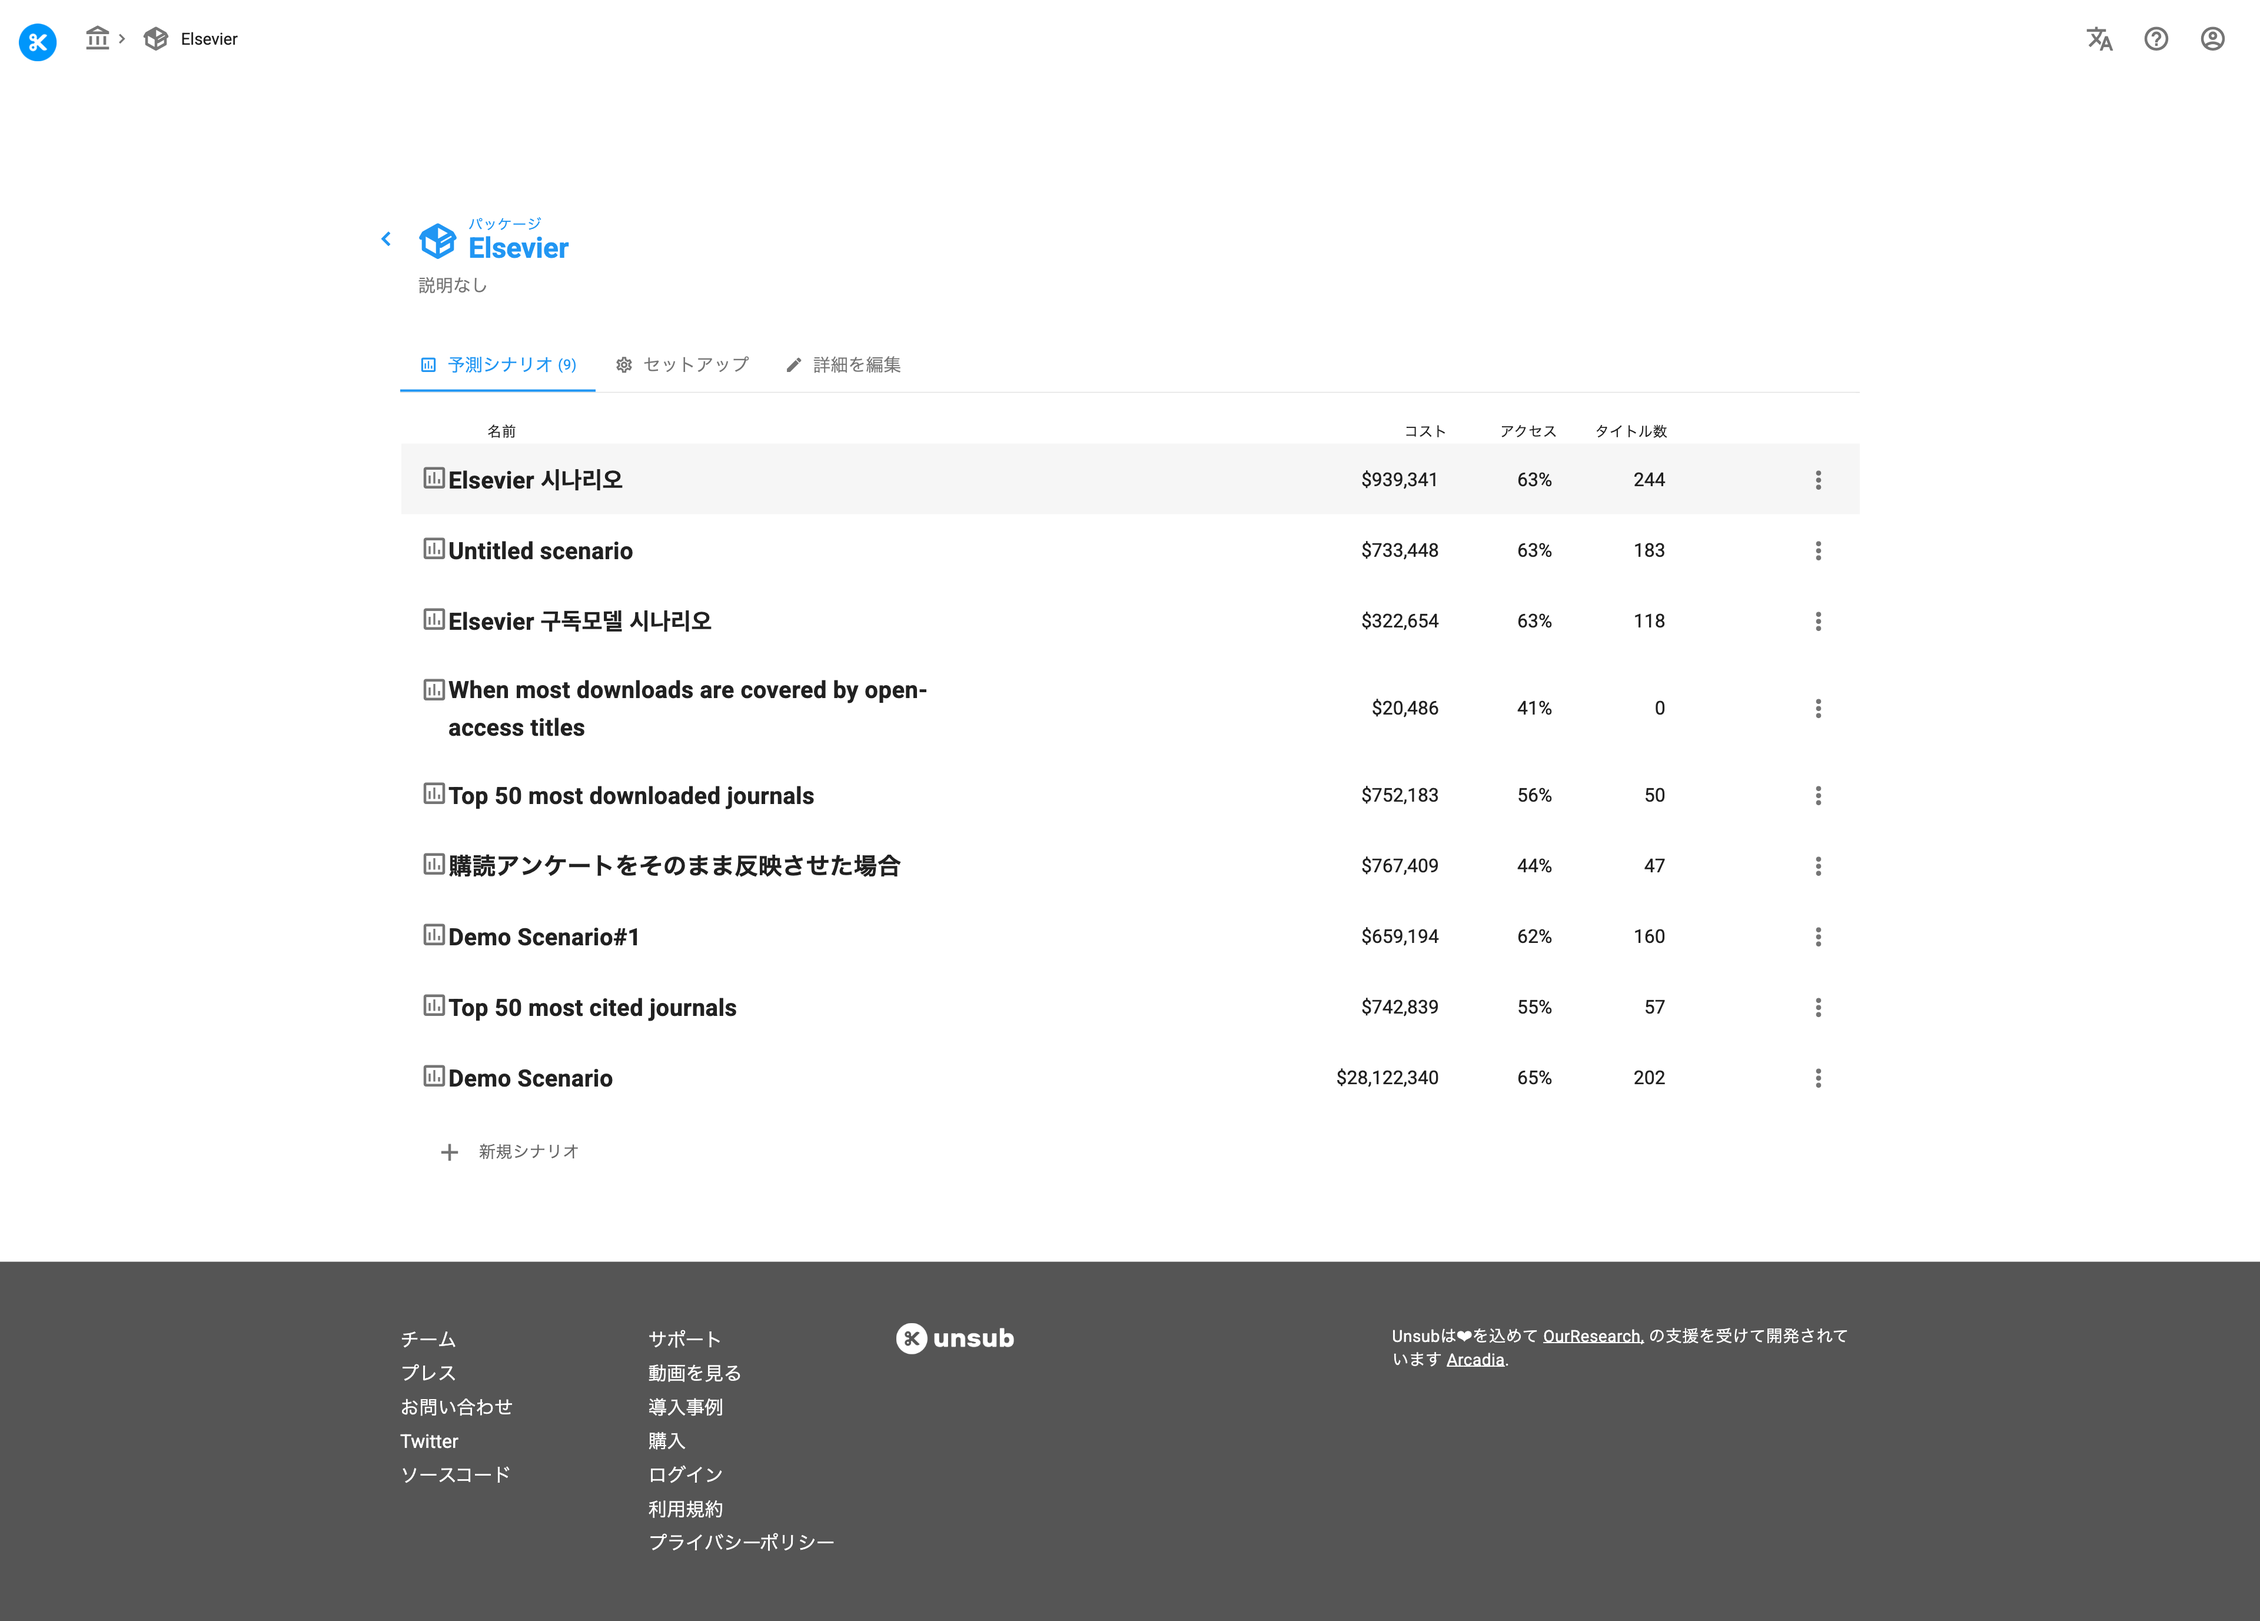
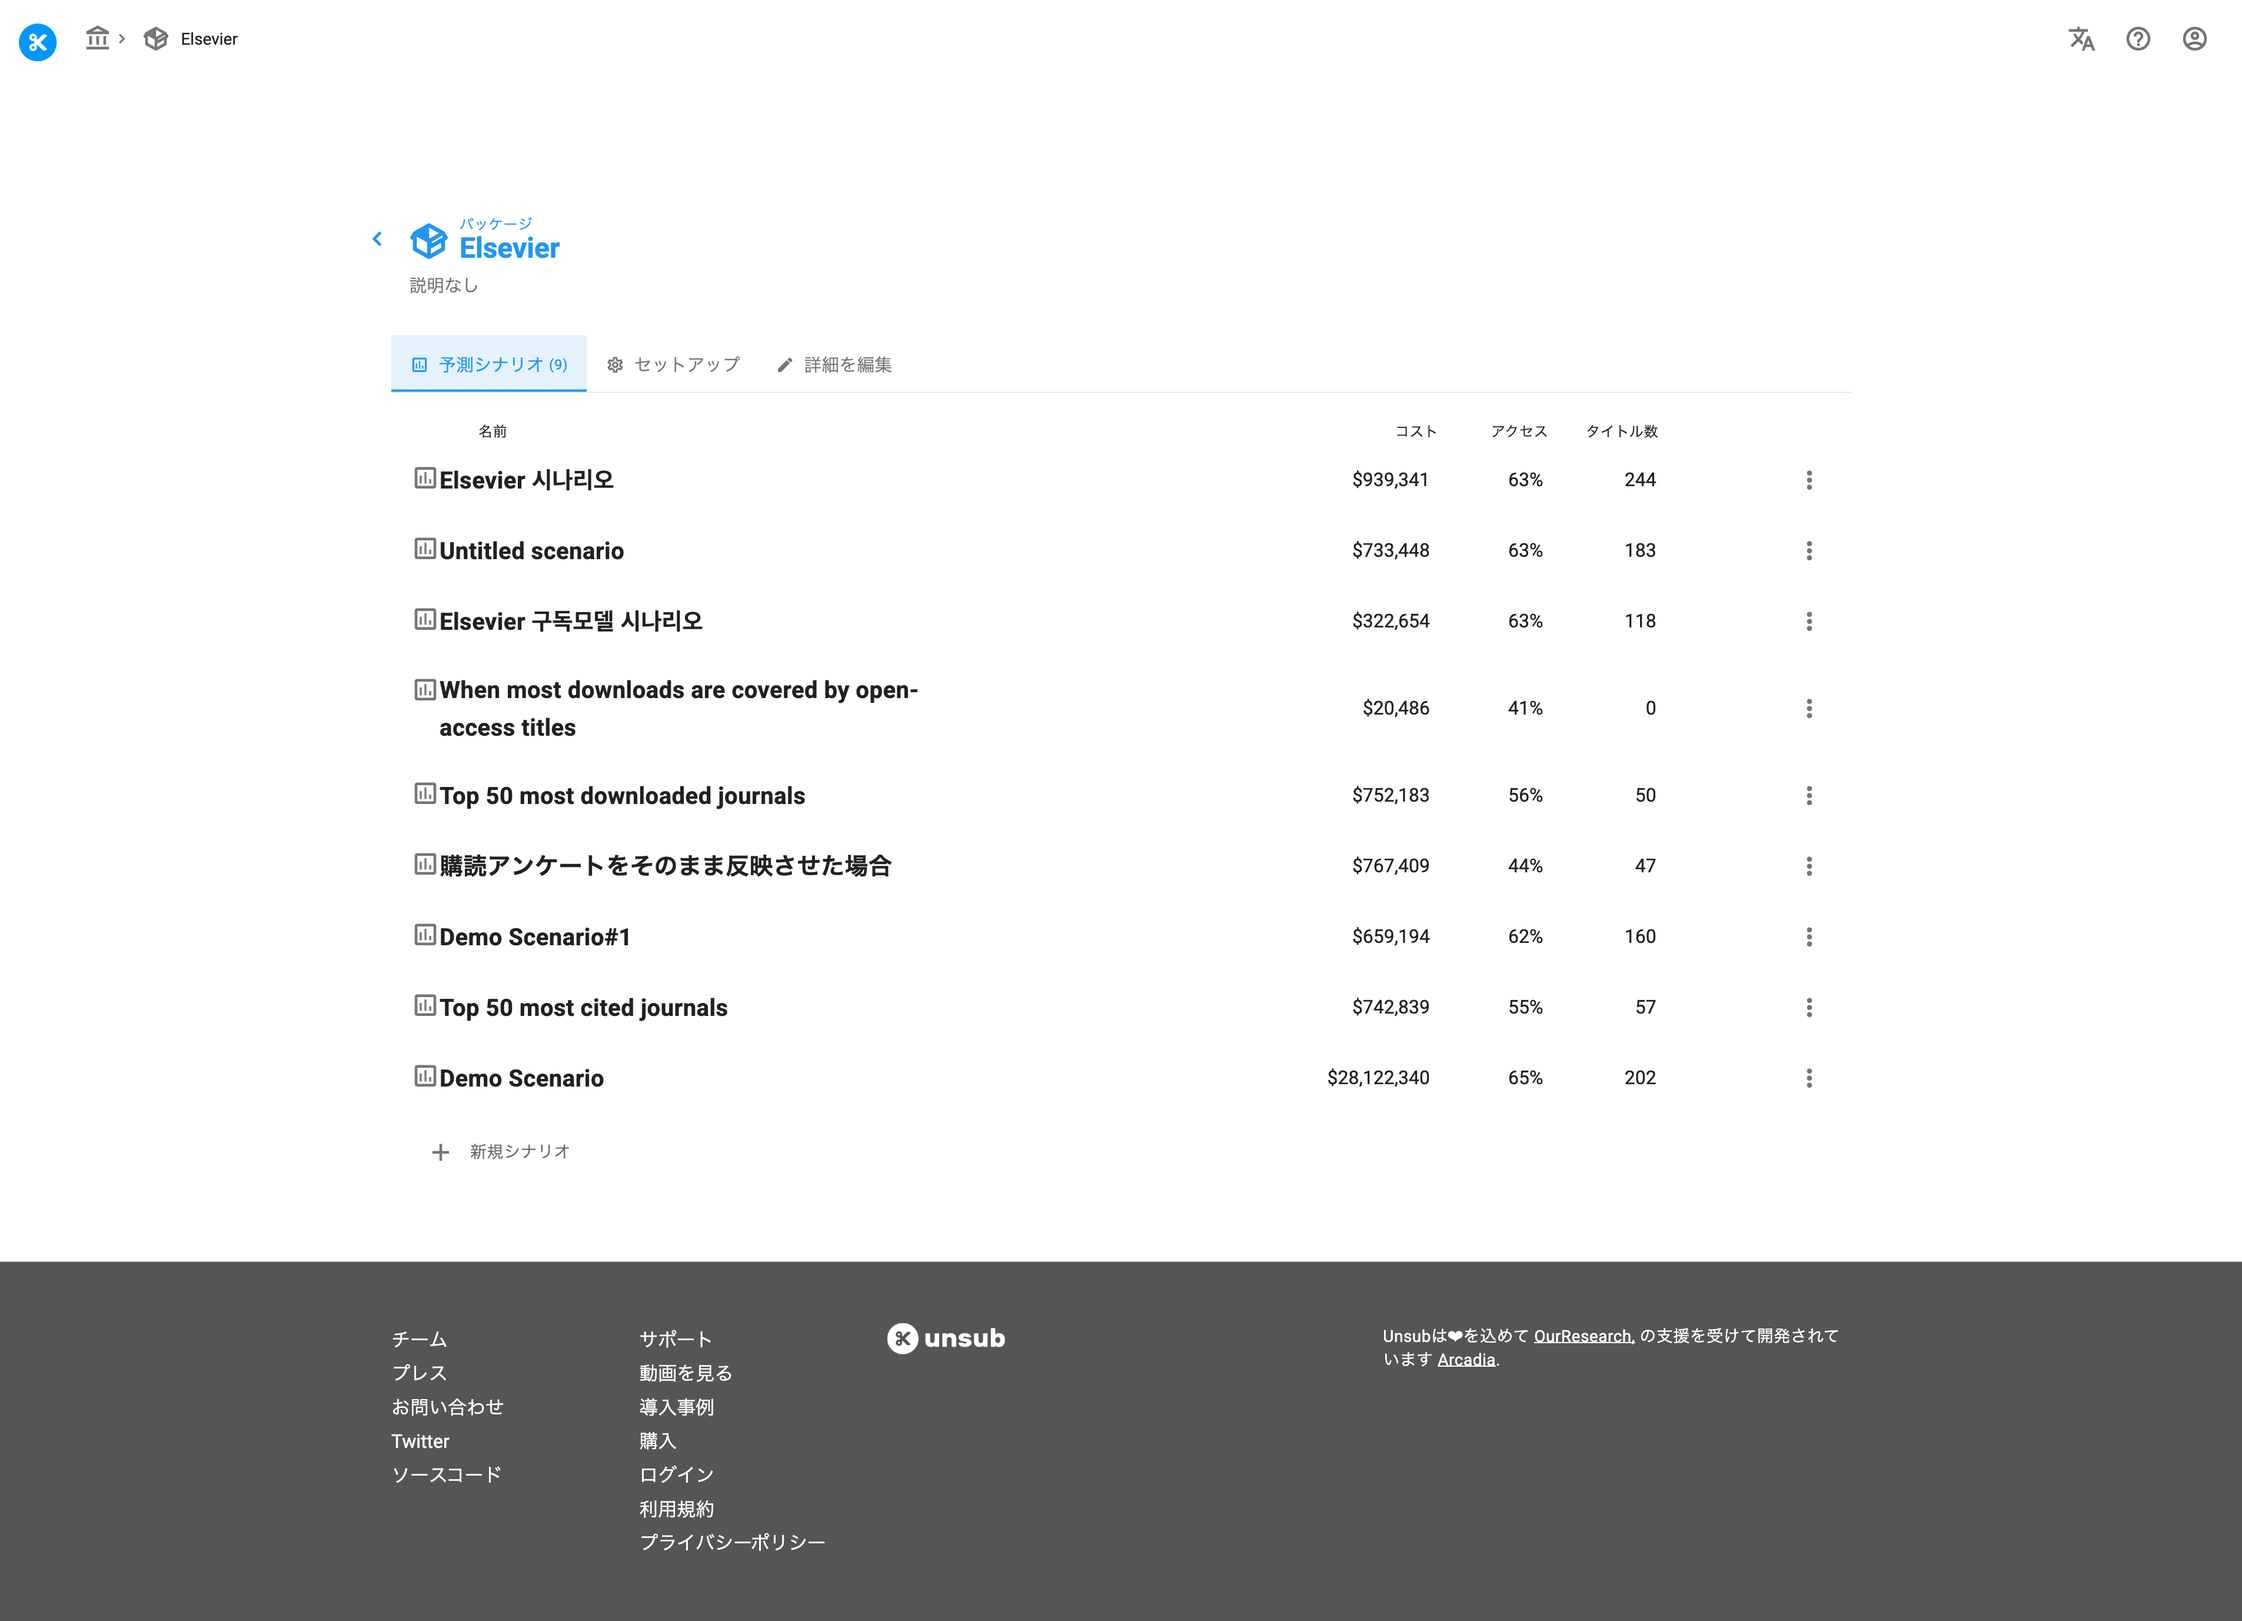
日本語UIスクリーンショット追加、英語プロキシ画像を差し替え、料金→価格に修正、フロントマター削除
- 各ページの英語版プロキシ画像を日本語UIキャプチャに差し替え
  (setup, scenario, select-journals, apc-report, change-package-name等)
- 「料金」→「価格」、「購読料金」→「購読価格」に用語統一
- Docsifyで表示されてしまうYAMLフロントマターを全ファイルから削除
- シナリオREADMEのリンクパスを修正

diff --git a/how-to-guides/change-package-name.md b/how-to-guides/change-package-name.md
@@ -14,12 +14,12 @@
 
 <figure><img src="https://docs.unsub.org/~gitbook/image?url=https%3A%2F%2F2329511114-files.gitbook.io%2F%7E%2Ffiles%2Fv0%2Fb%2Fgitbook-x-prod.appspot.com%2Fo%2Fspaces%252FeIwtiPevlQYuy1bQ4x85%252Fuploads%252FtaObLB8JjCOv8vITeqqj%252Fchange-package-description-names.jpg%3Falt%3Dmedia%26token%3D821e3b21-d5f1-491a-b71a-bb8c4e72959c&width=768&dpr=3&quality=100&sign=c390a1dcee11afbd0a65ed9e40b87a66&sv=3" alt=""><figcaption><p>画面右側にある3つの縦並びの点をクリックし、パッケージ名や説明の編集ができます。</p></figcaption></figure>
 
-Edit package nameもしくはEdit descriptionの箇所をクリックするとポップアップが表示されます。既に入力されているテキストを編集し、完了したら"Update"をクリックします。
+「パッケージ名を編集」もしくは「説明を編集」の箇所をクリックするとポップアップが表示されます。既に入力されているテキストを編集し、完了したら「更新」をクリックします。
 
 ### パッケージが既に選択された状態から
 
-パッケージ自体の画面に入った状態で、「**Edit Details**」というタブを探します。
+パッケージ自体の画面に入った状態で、「**詳細を編集**」というタブを探します。
 
-<figure><img src="https://docs.unsub.org/~gitbook/image?url=https%3A%2F%2F2329511114-files.gitbook.io%2F%7E%2Ffiles%2Fv0%2Fb%2Fgitbook-x-prod.appspot.com%2Fo%2Fspaces%252FeIwtiPevlQYuy1bQ4x85%252Fuploads%252FPeedFnIFXVg1dSxOqRsP%252Fchange-package-description-names-in-pkg-view.png%3Falt%3Dmedia%26token%3D5dff92c4-3e14-4ce8-a71d-a0cc7f144a4e&width=768&dpr=3&quality=100&sign=b3abfb28c3da3a0b7546a1f09621e097&sv=3" alt=""><figcaption><p>Edit Detailsのタブを見つけクリックします。</p></figcaption></figure>
+<figure><img src="../images/edit-details-tab-ja.png" alt=""><figcaption><p>「詳細を編集」のタブを見つけクリックします。</p></figcaption></figure>
 
-右側にある鉛筆をクリックすると、既に入力されたテキストが表示されたポップアップが表示されます。テキストを編集して、「Update」をクリックします。
+右側にある鉛筆をクリックすると、既に入力されたテキストが表示されたポップアップが表示されます。テキストを編集して、「更新」をクリックします。

diff --git a/how-to-guides/copy-scenario.md b/how-to-guides/copy-scenario.md
@@ -6,12 +6,12 @@
 
 既にシナリオが作成されている場合は、新規追加ではなくコピーをお勧めします。コピーしたシナリオはパラメータやその他の設定が全て複製されますので、作業をやり直す必要はありません。シナリオページにて、シナリオ名の右側にあるコピーアイコンをクリックします。
 
-<figure><img src="https://docs.unsub.org/~gitbook/image?url=https%3A%2F%2F2329511114-files.gitbook.io%2F%7E%2Ffiles%2Fv0%2Fb%2Fgitbook-x-prod.appspot.com%2Fo%2Fspaces%252FeIwtiPevlQYuy1bQ4x85%252Fuploads%252FkYZBvK2m1F7UneAkH5j0%252Fcopy-a-scenario-scenario-view.png%3Falt%3Dmedia%26token%3D3ef02267-86f3-4576-9f1e-a1000f29ec76&width=768&dpr=3&quality=100&sign=c13651cd28639ff77bebdd8c36d414c5&sv=3" alt=""><figcaption><p>シナリオ画面からのシナリオコピー</p></figcaption></figure>
+<figure><img src="../images/scenario-view-copy-icon-ja.png" alt=""><figcaption><p>シナリオ画面からのシナリオコピー</p></figcaption></figure>
 
 この後、複製された新しいシナリオに名前を付ける画面が表示されますので、名前を入力してください。
 
 また、シナリオ一覧ページからもシナリオのコピーをすることができます。コピーしたいシナリオの右側にある3つの縦長の点の箇所をクリックし、「Make a copy」を選択します。
 
-<figure><img src="https://docs.unsub.org/~gitbook/image?url=https%3A%2F%2F2329511114-files.gitbook.io%2F%7E%2Ffiles%2Fv0%2Fb%2Fgitbook-x-prod.appspot.com%2Fo%2Fspaces%252FeIwtiPevlQYuy1bQ4x85%252Fuploads%252FsDMzeJwYhlwU60UFOOzf%252Fcopy-a-scenario-pkg-view.png%3Falt%3Dmedia%26token%3Dfe08f9b6-0a8d-4699-9ab3-65c96cef40c4&width=768&dpr=3&quality=100&sign=0b9cbb1a8ba909054cb639ba09365323&sv=3" alt=""><figcaption><p>シナリオ一覧画面からのシナリオコピー</p></figcaption></figure>
+<figure><img src="../images/scenario-copy-menu-ja.png" alt=""><figcaption><p>シナリオ一覧画面からのシナリオコピー</p></figcaption></figure>
 
 シナリオが複製されると、元のシナリオではなくコピーされたシナリオに遷移されます。

diff --git a/reference/subscription-costs.md b/reference/subscription-costs.md
@@ -1,12 +1,12 @@
-# 購読料金
+# 購読価格
 
 Unsubダッシュボードのご利用にはサブスクリプション（購読契約）が必要です。
 
-弊社のコードは[オープンソース](https://github.com/ourresearch/get-unsub)ですが、サービスの維持・運用にはコストがかかります。購読料金によりそのコストを賄い、[非営利団体](https://ourresearch.org/)としての持続可能な運営を実現しています。
+弊社のコードは[オープンソース](https://github.com/ourresearch/get-unsub)ですが、サービスの維持・運用にはコストがかかります。購読価格によりそのコストを賄い、[非営利団体](https://ourresearch.org/)としての持続可能な運営を実現しています。
 
-料金体系は、貴図書館の現在の年間資料費予算（印刷・電子のシリアル、書籍など）の規模に基づいています。
+価格体系は、貴図書館の現在の年間資料費予算（印刷・電子のシリアル、書籍など）の規模に基づいています。
 
-以下が料金区分です：
+以下が価格区分です：
 
 
 

diff --git a/how-to-guides/set-currency.md b/how-to-guides/set-currency.md
@@ -8,6 +8,8 @@ Unsubでは、現在以下の3つの通貨に対応しています。
 
 通貨を変更するには、パッケージのページ（画面左上の名前をクリックできます）に行き、セットアップタブを表示し、「通貨」メニューオプションを選び、使いたい通貨を選択します。
 
+<figure><img src="../images/setup-currency-ja.png" alt=""><figcaption><p>通貨の設定画面</p></figcaption></figure>
+
 **重要事項：** 通貨の変更は自動的な換算を行いません。通貨を変更する場合は、既に入力済みのコストを新しい通貨建ての値に更新してください。具体的には、パッケージのビッグディールコストとシナリオのILL処理コストパラメータを編集する必要があります。また、カスタム価格リストの差し替えも必要です。
 
 JPYを選択した場合、JPYの価格のない外貨建てのジャーナルは、お客様でJPYに転換し、タイトル毎のISSNと価格を入れる必要があります。

diff --git a/how-to-guides/create-scenario.md b/how-to-guides/create-scenario.md
@@ -8,6 +8,6 @@
 
 シナリオを追加するには、一覧ページで「+New scenario」をクリックします。
 
-<figure><img src="https://docs.unsub.org/~gitbook/image?url=https%3A%2F%2F2329511114-files.gitbook.io%2F%7E%2Ffiles%2Fv0%2Fb%2Fgitbook-x-prod.appspot.com%2Fo%2Fspaces%252FeIwtiPevlQYuy1bQ4x85%252Fuploads%252FrmjY2o2HQyYUVokDwO3w%252Fadd-a-new-scenario.png%3Falt%3Dmedia%26token%3Df59987ee-7076-4200-87ac-c8989a0fc6b7&width=768&dpr=3&quality=100&sign=db0bf0eb82ab151d06ce09c20b7c97a2&sv=3" alt=""><figcaption></figcaption></figure>
+<figure><img src="../images/scenario-list-ja.png" alt=""><figcaption><p>シナリオ一覧画面。下部の「+新規シナリオ」をクリックします。</p></figcaption></figure>
 
 すでにシナリオがひとつ作成されている場合は、[シナリオのコピー](/unsub_guide_jpn/gogaido/shinariowosuru.md)をすることをお勧めします。

diff --git a/how-to-guides/upload-pta-data.md b/how-to-guides/upload-pta-data.md
@@ -14,7 +14,7 @@
 
 まずPTAを設定したいパッケージに移動します。Setupタブをクリックし、PTAの箇所までスクロールします。
 
-<figure><img src="https://docs.unsub.org/~gitbook/image?url=https%3A%2F%2F2329511114-files.gitbook.io%2F%7E%2Ffiles%2Fv0%2Fb%2Fgitbook-x-prod.appspot.com%2Fo%2Fspaces%252FeIwtiPevlQYuy1bQ4x85%252Fuploads%252F4FEuB3eb6R8eFeqKSc2X%252Fpta-setup.png%3Falt%3Dmedia%26token%3D930d393f-48e7-44bb-8f78-ba68349a7c3e&width=768&dpr=3&quality=100&sign=89f142553c1b16fb3d99c8498f5e962b&sv=3" alt=""><figcaption><p>PTAのセットアップ</p></figcaption></figure>
+<figure><img src="../images/setup-pta-ja.png" alt=""><figcaption><p>PTAのセットアップ</p></figcaption></figure>
 
 上図のオレンジの箇所に、PTAのデータが不足しているという警告が表示されています。
 

diff --git a/how-to-guides/apc-report.md b/how-to-guides/apc-report.md
@@ -6,7 +6,7 @@
 
 APC（論文投稿費）レポートのタブは、機関画面で確認することができます。
 
-<figure><img src="https://docs.unsub.org/~gitbook/image?url=https%3A%2F%2F2329511114-files.gitbook.io%2F%7E%2Ffiles%2Fv0%2Fb%2Fgitbook-x-prod.appspot.com%2Fo%2Fspaces%252FeIwtiPevlQYuy1bQ4x85%252Fuploads%252F94BTHnw5ibBhR5sD8uh8%252Fapc-report.png%3Falt%3Dmedia%26token%3D246e311c-6e87-408e-994b-2d8bf01f6463&width=768&dpr=3&quality=100&sign=5ae2ee3a8c5db20804b6cf18a1c5c934&sv=3" alt=""><figcaption><p>APCレポートのタブ</p></figcaption></figure>
+<figure><img src="../images/apc-report-ja.png" alt=""><figcaption><p>APCレポートのタブ</p></figcaption></figure>
 
 ダウンロードボタンをクリックすると、スプレッドシートをダウンロードできます。
 

diff --git a/SUMMARY.md b/SUMMARY.md
@@ -29,8 +29,8 @@
   * [APC（Article Processing Cost）レポート](how-to-guides/apc-report.md)
   * [除外されたタイトルレポート](how-to-guides/excluded-titles-report.md)
 * [レファレンス](reference/README.md)
-  * [料金](reference/pricing/README.md)
-    * [購読料金](reference/subscription-costs.md)
+  * [価格](reference/pricing/README.md)
+    * [購読価格](reference/subscription-costs.md)
     * [コンソーシアム・ダッシュボード](reference/pricing/consortium-dashboard.md)
   * [シナリオ](reference/scenarios/README.md)
     * [概要](reference/scenarios/high-level-overview.md)
